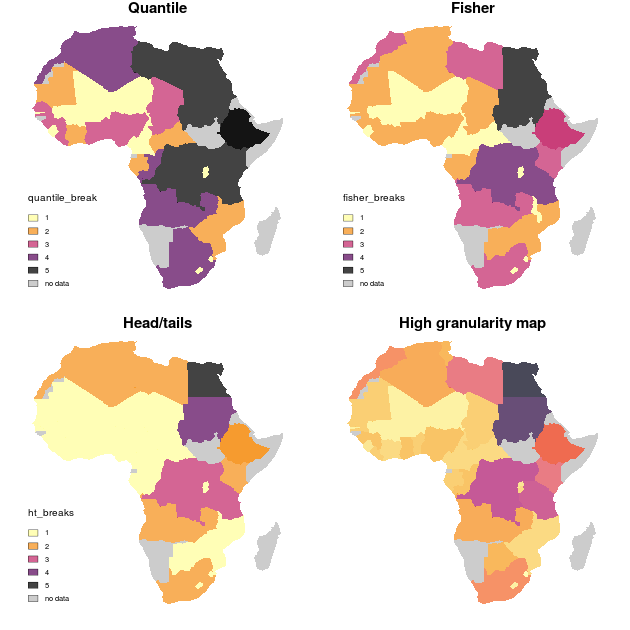
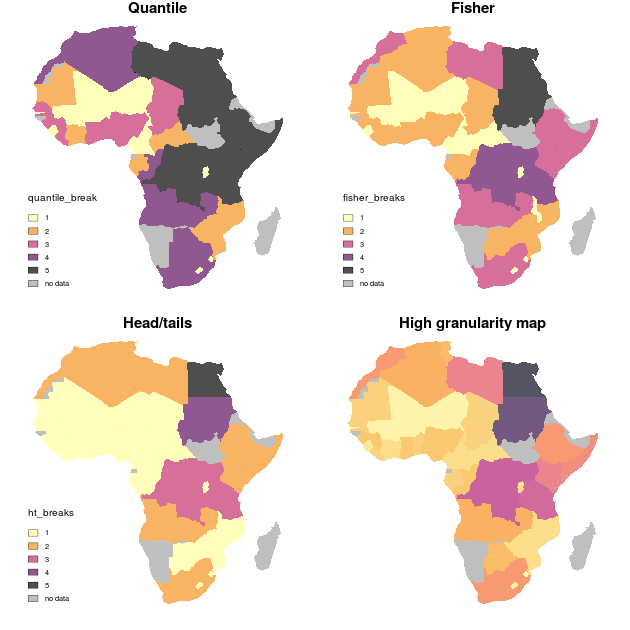
A

diff --git a/collections/_vignettes/headtails.md b/collections/_vignettes/headtails.md
@@ -457,30 +457,76 @@ library(colorspace)
 
 opar <- par()
 
-par(mfrow = c(2, 2), mar = c(1, 1, 1, 1))
-
+par(mfrow = c(2, 2),
+    mar = c(1, 1, 1, 1),
+    bg = "white")
 africa <- ne_countries(continent = "africa", returnclass = "sf")
-afcon.sf <- st_as_sf(afcon, crs = 4326, coords = c("x", "y"))
+
+
+#Fix coordinates from Somalia
+point <-
+  st_coordinates(st_sample(africa[africa$admin == "Somalia", ], 1))
+
+afcon.clean1 <- afcon[afcon$name == "SOMALIA", ]
+afcon.clean2 <- afcon[afcon$name != "SOMALIA", ]
+afcon.clean1[1, 1:2] <- point
+
+afcon.end <- rbind(afcon.clean1, afcon.clean2)
+
+afcon.sf <- st_as_sf(afcon.end, crs = 4326, coords = c("x", "y"))
 afcon.sf <- st_transform(afcon.sf, st_crs(africa))
 afcon.sf <- st_join(africa[, "admin"], afcon.sf)
 afcon.sf <- afcon.sf[order(afcon.sf$totcon), ]
 
-typoLayer(afcon.sf, var = "quantile_break", col = rev(sequential_hcl(palette = "inferno", alpha = 0.75, n = nclass)), colNA = "grey80", border = NA)
+
+typoLayer(
+  afcon.sf,
+  var = "quantile_break",
+  col = rev(sequential_hcl(
+    palette = "inferno", alpha = 0.7, n = nclass
+  )),
+  colNA = "grey75",
+  border = NA
+)
 title(main = "Quantile")
 
-typoLayer(afcon.sf, var = "fisher_breaks", col = rev(sequential_hcl(palette = "inferno", alpha = 0.75, n = nclass)), colNA = "grey80", border = NA)
+typoLayer(
+  afcon.sf,
+  var = "fisher_breaks",
+  col = rev(sequential_hcl(
+    palette = "inferno", alpha = 0.7, n = nclass
+  )),
+  colNA = "grey75",
+  border = NA
+)
 title(main = "Fisher")
 
 
-typoLayer(afcon.sf, var = "ht_breaks", col = rev(sequential_hcl(palette = "inferno", alpha = 0.75, n = nclass)), colNA = "grey80", border = NA)
+typoLayer(
+  afcon.sf,
+  var = "ht_breaks",
+  col = rev(sequential_hcl(
+    palette = "inferno", alpha = 0.7, n = nclass
+  )),
+  colNA = "grey75",
+  border = NA
+)
 title(main = "Head/tails")
 
-# High-granularity map
-br <- classIntervals(afcon$totcon, style = "pretty", n = 25)
-
-choroLayer(afcon.sf,
-  var = "totcon", breaks = br$brks, border = NA,
-  colNA = "grey80", col = rev(sequential_hcl(palette = "inferno", alpha = 0.75, n = length(br$brks))), legend.pos = NA
+#High-granularity map
+br <- classIntervals(afcon$totcon, style = "pretty",  n = 20)
+choroLayer(
+  afcon.sf,
+  var = "totcon",
+  breaks = br$brks,
+  border = NA,
+  colNA = "grey75",
+  col = rev(sequential_hcl(
+    palette = "inferno",
+    alpha = 0.7,
+    n = length(br$brks)
+  )),
+  legend.pos = NA
 )
 title(main = "High granularity map")
 par(opar)
